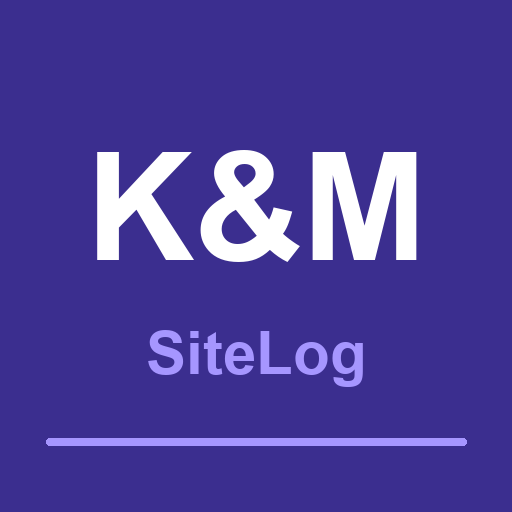
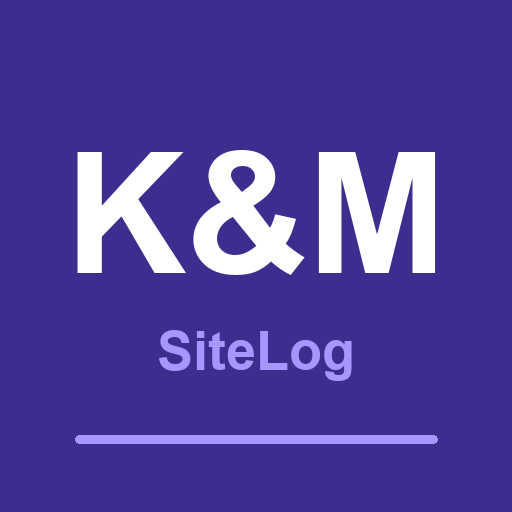
photos(SiteLog): 아이콘 K&M 폰트 크기를 워크로그·인보이스와 정확히 일치(측정 기반) — APP_BUILD 2026-10-02-08

Changed region(s): [[0.125, 0.2812, 0.875, 0.5625], [0.2812, 0.625, 0.7188, 0.7812], [0.0938, 0.8438, 0.9062, 0.875]]

diff --git a/photos/index.html b/photos/index.html
@@ -171,7 +171,7 @@ input,textarea,select{font-family:inherit;font-size:16px}
 <div id="toast" class="toast"></div>
 <datalist id="builder-list"></datalist>
 <script>
-const APP_BUILD='2026-10-02-07';
+const APP_BUILD='2026-10-02-08';
 const RTDB='https://knmtilingptyltd-12520-default-rtdb.firebaseio.com';
 // Photos stored on Cloudflare R2 (via Worker, free egress). Upload key is light protection.
 const WORKER='https://km-photos-api.kmtiling.workers.dev';
